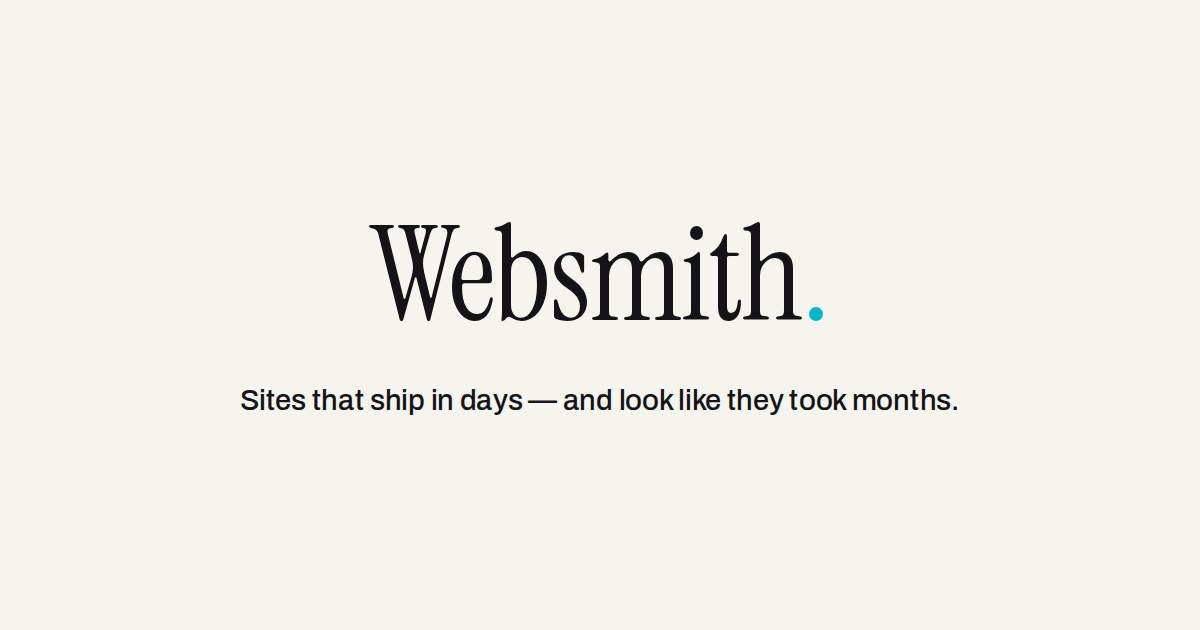
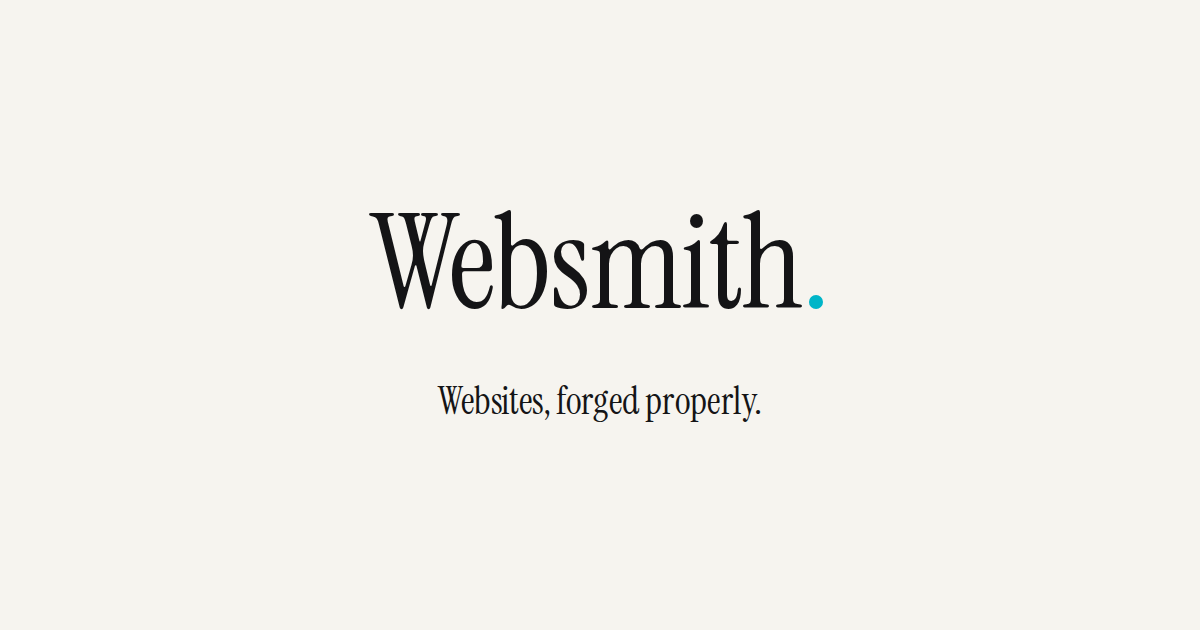
Refine Living Period: three projects, full-page frames, week-based process
Portfolio → exactly three projects (Sumou Jet · sumoujet.com, Grailhaus,
Maison Padel · maisonpadel.ae); Rack On and Prairies Fodder removed and
Maison Padel restored. Each project's frame is now sized for a tall
full-page screenshot: the framed image scrolls internally via an
object-position reveal (0→100%), so a full-page capture unspools
top-to-bottom as the visitor passes; single-viewport interims fill the
frame until real full-page captures are dropped in. Vertical spacing
between projects tightened (no forced 100svh, gap 0) so the next project
peeks as one ends — momentum kept. Mobile portfolio frames are full-bleed.

Dot docking reworked to smoothly FOLLOW the active section's anchor
(gsap.ticker + quickTo, 0.55s ease-out) instead of a discrete hop — it
now stays beside each title through the (now shorter) sections and glides
to the next, ending in the CTA. The primary WhatsApp buttons are now ink
(dark) rather than cyan, so the cyan dot is visible when it lands in the
close CTA's reserved slot (cyan-on-cyan was invisible); the CTA still
plays its single breathe. Cyan stays the only accent (dot, wordmark
period, link underlines).

Studio/process → no day-based timeline anywhere. Delivery is positioned
as two to three weeks, presented as three phases: Week 1 Foundation,
Week 2 The build, Week 3 Polish & launch. Removed all day references from
copy (packages, about, meta description, OG alt) and regenerated the OG
[…]

Changed region(s): [[0.3083, 0.3317, 0.7092, 0.5127], [0.185, 0.6032, 0.8017, 0.6635]]

diff --git a/components/Home.tsx b/components/Home.tsx
@@ -46,9 +46,24 @@ export default function Home({ images }: { images: Record<string, PortfolioImage
         const s = dotSize();
         return { x: r.left + r.width / 2 - s / 2, y: r.top + r.height / 2 - s / 2 };
       };
-      const dockTo = (el: HTMLElement, dur = 0.55) =>
-        gsap.to(dot, { ...posOf(el), duration: dur, ease: "power2.out", overwrite: "auto" });
-      const setDot = (el: HTMLElement) => gsap.set(dot, { ...posOf(el), opacity: 1 });
+      // The dot smoothly follows whichever section's anchor is active — quickTo
+      // gives the 0.5–0.6s ease-out glide between docking anchors, and following
+      // the live position keeps it beside the title as the section scrolls.
+      let active: HTMLElement = heroSlot;
+      let following = false;
+      const qx = gsap.quickTo(dot, "x", { duration: 0.55, ease: "power2.out" });
+      const qy = gsap.quickTo(dot, "y", { duration: 0.55, ease: "power2.out" });
+      const follow = () => {
+        const p = posOf(active);
+        qx(p.x);
+        qy(p.y);
+      };
+      const startFollow = () => {
+        if (following) return;
+        following = true;
+        gsap.set(dot, { opacity: 1 });
+        gsap.ticker.add(follow);
+      };
 
       // ---- non-dot scroll choreography (safe to attach immediately) ----
       gsap.utils.toArray<HTMLElement>(".kin").forEach((k) => {
@@ -70,12 +85,15 @@ export default function Home({ images }: { images: Record<string, PortfolioImage
           onEnter: () => gsap.to(el, { y: 0, opacity: 1, duration: 0.6, ease: "power2.out" }),
         });
       });
+      // Internal full-page reveal: object-position scrolls the framed screenshot
+      // from its top to its bottom as the project passes. For a tall full-page
+      // capture this reveals the entire page; for a short image it barely moves.
       gsap.utils.toArray<HTMLElement>(".pf-img").forEach((img) => {
         gsap.fromTo(
           img,
-          { yPercent: 0 },
+          { "--pp": 0 },
           {
-            yPercent: -21,
+            "--pp": 100,
             ease: "none",
             scrollTrigger: { trigger: img.closest(".pf-view"), start: "top bottom", end: "bottom top", scrub: true },
           }
@@ -108,21 +126,29 @@ export default function Home({ images }: { images: Record<string, PortfolioImage
       });
 
       // ---- the travelling dot ----
+      let breathed = false;
+      const breathe = () => {
+        if (breathed) return;
+        breathed = true;
+        gsap.fromTo(".close-cta .btn", { scale: 1 }, { scale: 1.05, duration: 0.5, yoyo: true, repeat: 1, ease: "sine.inOut" });
+      };
       const attachDotScroll = () => {
-        const anchors = gsap.utils.toArray<HTMLElement>("[data-dot-anchor]");
-        anchors.forEach((el) => {
+        active = heroSlot;
+        startFollow();
+        gsap.utils.toArray<HTMLElement>("[data-dot-anchor]").forEach((el) => {
           const section = el.closest<HTMLElement>(".pf, .section, .hero, .close") || el;
           const isClose = el.getAttribute("data-dot-anchor") === "close";
           ScrollTrigger.create({
             trigger: section,
-            start: "top center",
-            end: "bottom center",
+            start: "top 58%",
+            end: "bottom 42%",
             onEnter: () => {
-              dockTo(el);
-              if (isClose)
-                gsap.fromTo(".close-cta .btn", { scale: 1 }, { scale: 1.05, duration: 0.5, yoyo: true, repeat: 1, ease: "sine.inOut" });
+              active = el;
+              if (isClose) breathe();
             },
-            onEnterBack: () => dockTo(el),
+            onEnterBack: () => {
+              active = el;
+            },
           });
         });
         ScrollTrigger.refresh();
@@ -134,7 +160,7 @@ export default function Home({ images }: { images: Record<string, PortfolioImage
 
       if (played) {
         gsap.set(letters, { yPercent: 0, opacity: 1 });
-        setDot(heroSlot);
+        gsap.set(dot, { ...posOf(heroSlot), opacity: 1 });
         attachDotScroll();
       } else {
         const mark = document.querySelector<HTMLElement>(".hero-mark")!;
@@ -172,7 +198,10 @@ export default function Home({ images }: { images: Record<string, PortfolioImage
       // keep the dot glued to the active anchor on resize
       const onResize = () => ScrollTrigger.refresh();
       window.addEventListener("resize", onResize);
-      return () => window.removeEventListener("resize", onResize);
+      return () => {
+        window.removeEventListener("resize", onResize);
+        gsap.ticker.remove(follow);
+      };
     }, rootRef);
 
     // ---- magnetic buttons (desktop, fine pointer) ----
@@ -228,7 +257,7 @@ export default function Home({ images }: { images: Record<string, PortfolioImage
           <p className="hero-tagline">{hero.tagline}</p>
           <p className="hero-support">{hero.support}</p>
           <div className="hero-cta">
-            <a className="btn btn-cyan" data-magnetic href={waLink()} target="_blank" rel="noopener noreferrer">
+            <a className="btn" data-magnetic href={waLink()} target="_blank" rel="noopener noreferrer">
               {hero.cta}
             </a>
             <a className="tlink sweep" href="#work">
@@ -325,8 +354,8 @@ export default function Home({ images }: { images: Record<string, PortfolioImage
           <p className="about-body reveal-fade">{about.body}</p>
           <div className="steps">
             {process.map((s) => (
-              <div className="step reveal-fade" key={s.day}>
-                <div className="d">{s.day}</div>
+              <div className="step reveal-fade" key={s.label}>
+                <div className="d">{s.label}</div>
                 <h4>{s.title}</h4>
                 <p>{s.text}</p>
               </div>
@@ -341,7 +370,7 @@ export default function Home({ images }: { images: Record<string, PortfolioImage
           </h2>
           <p className="close-support reveal-fade">{close.support}</p>
           <div className="close-cta">
-            <a className="btn btn-cyan" data-magnetic href={waLink()} target="_blank" rel="noopener noreferrer">
+            <a className="btn" data-magnetic href={waLink()} target="_blank" rel="noopener noreferrer">
               <span className="slot" data-dot-anchor="close" aria-hidden="true" />
               {close.cta}
             </a>

diff --git a/config/site.ts b/config/site.ts
@@ -30,12 +30,12 @@ export interface Package {
   description: string;
 }
 
-export interface ProcessStep {
-  /** day marker, e.g. "Day 0" or "Days 2–4" */
-  day: string;
-  /** step title */
+export interface Phase {
+  /** phase label, e.g. "Week 1" */
+  label: string;
+  /** phase title */
   title: string;
-  /** step description */
+  /** phase description */
   text: string;
 }
 
@@ -59,7 +59,7 @@ export const site = {
   meta: {
     title: "Websmith — Independent Web Studio, Dubai",
     description:
-      "Websmith forges custom brand websites in Dubai — real motion, native Arabic, shipped in days. A Web Smith FZCO company.",
+      "Websmith forges custom brand websites in Dubai — real motion, native Arabic, delivered in two to three weeks. A Web Smith FZCO company.",
     url: "https://websmith.ae",
     themeColor: "#F6F4EF",
   },
@@ -72,35 +72,28 @@ export const site = {
     cta: "Start on WhatsApp",
   },
 
-  /** PORTFOLIO — each project is a full-viewport moment */
+  /** PORTFOLIO — exactly three projects, each a full-viewport moment */
   portfolio: [
     {
       slug: "sumou-jet",
       name: "Sumou Jet",
       blurb: "Private jet charter, forged for the Gulf's most demanding travellers.",
-      liveUrl: "https://sumou-jet.example",
+      liveUrl: "https://sumoujet.com",
       tint: "#EDF0F3",
     },
     {
       slug: "grailhaus",
       name: "Grailhaus",
       blurb: "A one-of-one trading-card vault where collectors make offers, not orders.",
-      liveUrl: "https://grailhaus.example",
+      liveUrl: "https://grailhaus.com",
       tint: "#F4EFE6",
     },
     {
-      slug: "rack-on",
-      name: "Rack On",
-      blurb: "Barbell-grade e-commerce for a strength brand that doesn't do subtle.",
-      liveUrl: "https://rack-on.example",
-      tint: "#F1EFEA",
-    },
-    {
-      slug: "prairies-fodder",
-      name: "Prairies Fodder",
-      blurb: "Farm-to-trough commerce for a prairie feed supplier, built to move tonnes.",
-      liveUrl: "https://prairies-fodder.example",
-      tint: "#EDF1EA",
+      slug: "maison-padel",
+      name: "Maison Padel",
+      blurb: "Dubai's first luxury indoor padel club — brand, booking, and a bilingual members' world.",
+      liveUrl: "https://maisonpadel.ae",
+      tint: "#ECF1EE",
     },
   ] as Project[],
 
@@ -110,7 +103,7 @@ export const site = {
       name: "Launch",
       subject: "Launch",
       description:
-        "A custom brand site, forged in days — everything you need to look established from day one.",
+        "A custom brand site that makes you look established from the first visit — structure, design, and content, done properly.",
     },
     {
       name: "Store",
@@ -126,17 +119,16 @@ export const site = {
     },
   ] as Package[],
 
-  /** ABOUT / PROCESS */
+  /** ABOUT / PROCESS — delivery positioned as two to three weeks (no day counts) */
   about: {
-    title: "One smith. Measured in days, not months.",
-    body: "Websmith is one independent studio in Dubai — design, build, motion, and native Arabic under one roof. No agency overhead, no six-week timelines. You talk to the person doing the work.",
+    title: "One smith. Two to three weeks, start to launch.",
+    body: "Websmith is one independent studio in Dubai — design, build, motion, and native Arabic under one roof. No agency overhead, no drawn-out timelines. You talk to the person doing the work.",
   },
   process: [
-    { day: "Day 0", title: "Brief", text: "One call or one voice note — I take it from there." },
-    { day: "Day 1", title: "Draft", text: "A working design in your hands, with real motion." },
-    { day: "Days 2–4", title: "Build", text: "The full site, previewed live as it grows." },
-    { day: "Day 5", title: "Ship", text: "Your domain, your accounts, your keys." },
-  ] as ProcessStep[],
+    { label: "Week 1", title: "Foundation", text: "Brand direction, structure, and the design concept — the shape of the whole thing agreed before a pixel is built." },
+    { label: "Week 2", title: "The build", text: "Design and development in parallel, your content in place, previewed live as it grows." },
+    { label: "Week 3", title: "Polish & launch", text: "Refinements, testing across every device, then go live on your own domain and accounts." },
+  ] as Phase[],
 
   /** CLOSE — where the dot lands, in the WhatsApp CTA */
   close: {

diff --git a/app/globals.css b/app/globals.css
@@ -103,9 +103,10 @@ nav{position:sticky;top:0;z-index:60;background:rgba(246,244,239,.82);backdrop-f
   font-size:clamp(160px,32vw,460px);line-height:1;color:var(--ink);opacity:.04;white-space:nowrap;pointer-events:none;z-index:0;user-select:none}
 
 /* ---------- PORTFOLIO ---------- */
-.pf{position:relative;min-height:100svh;display:flex;align-items:center;padding:100px 0;z-index:1}
-.pf-grid{display:grid;grid-template-columns:1fr 1.05fr;gap:56px;align-items:center;width:100%}
-.pf:nth-child(even) .pf-grid{grid-template-columns:1.05fr 1fr}
+/* Tight vertical rhythm — projects flow with momentum, the next peeking as one ends */
+.pf{position:relative;padding:54px 0;z-index:1}
+.pf-grid{display:grid;grid-template-columns:.82fr 1.18fr;gap:56px;align-items:center;width:100%}
+.pf:nth-child(even) .pf-grid{grid-template-columns:1.18fr .82fr}
 .pf:nth-child(even) .pf-frame{order:-1}
 .pf-index{font-family:var(--font-sans),sans-serif;font-size:12px;font-weight:600;letter-spacing:.22em;color:var(--muted);margin-bottom:16px;display:flex;align-items:center;gap:14px}
 .pf-name{font-family:var(--font-serif),Georgia,serif;font-weight:400;font-size:clamp(46px,7vw,104px);line-height:.92;letter-spacing:-.02em;margin-bottom:18px}
@@ -117,12 +118,16 @@ nav{position:sticky;top:0;z-index:60;background:rgba(246,244,239,.82);backdrop-f
 .pf-frame:hover{transform:translateY(-2px)}
 .pf-bar{height:34px;display:flex;align-items:center;gap:7px;padding:0 15px;background:rgba(20,20,22,.05);border-bottom:1px solid var(--line)}
 .pf-bar i{width:9px;height:9px;border-radius:50%;background:#c8c2b6;display:block}
-.pf-view{position:relative;aspect-ratio:16/10.2;overflow:hidden}
-.pf-img{position:absolute;left:0;top:0;width:100%;height:128%;object-fit:cover;object-position:top;will-change:transform}
+/* the browser "window": a tall viewport a full-page screenshot scrolls through */
+.pf-view{position:relative;height:clamp(340px,58vh,560px);overflow:hidden}
+.pf-img{position:absolute;inset:0;width:100%;height:100%;object-fit:cover;object-position:50% calc(var(--pp,0)*1%);will-change:object-position}
 @media(max-width:820px){
-  .pf-grid,.pf:nth-child(even) .pf-grid{grid-template-columns:1fr;gap:30px}
+  .pf-grid,.pf:nth-child(even) .pf-grid{grid-template-columns:1fr;gap:24px}
   .pf:nth-child(even) .pf-frame{order:0}
-  .pf{min-height:auto;padding:70px 0}
+  .pf{padding:44px 0}
+  /* full-bleed portfolio frames on mobile */
+  .pf-frame{border-radius:0;margin-left:-28px;margin-right:-28px;box-shadow:none;border-top:1px solid var(--line);border-bottom:1px solid var(--line)}
+  .pf-view{height:62vh}
 }
 
 /* ---------- PACKAGES ---------- */
@@ -135,7 +140,7 @@ nav{position:sticky;top:0;z-index:60;background:rgba(246,244,239,.82);backdrop-f
 
 /* ---------- ABOUT / PROCESS ---------- */
 .about-body{color:var(--body);font-size:19px;max-width:60ch;line-height:1.6;margin-bottom:56px}
-.steps{display:grid;grid-template-columns:repeat(4,1fr);gap:40px;border-top:1px solid var(--line-strong);padding-top:34px}
+.steps{display:grid;grid-template-columns:repeat(3,1fr);gap:44px;border-top:1px solid var(--line-strong);padding-top:34px}
 .step .d{font-family:var(--font-sans),sans-serif;font-size:12px;font-weight:600;letter-spacing:.16em;color:var(--muted);margin-bottom:12px}
 .step h4{font-family:var(--font-serif),Georgia,serif;font-size:22px;margin-bottom:8px}
 .step p{color:var(--body);font-size:15px}

diff --git a/app/layout.tsx b/app/layout.tsx
@@ -21,7 +21,7 @@ export const metadata: Metadata = {
         url: "/og.png",
         width: 1200,
         height: 630,
-        alt: "Websmith — sites that ship in days, and look like they took months.",
+        alt: "Websmith — websites, forged properly.",
       },
     ],
   },

diff --git a/public/portfolio/README.md b/public/portfolio/README.md
@@ -1,26 +1,29 @@
 # Portfolio screenshots
 
-Each project on the homepage shows a full-page screenshot inside a browser
-frame that parallax-scrolls as you pass it. Drop the real screenshots here.
+Exactly three projects. Each shows a screenshot inside a browser frame that
+scrolls **internally** as the visitor passes — for a tall full-page capture this
+reveals the whole page top-to-bottom.
 
-## Exact files (one per project, named by its `slug` in `config/site.ts`)
+## Exact files — drop full-page captures here (`/public/portfolio/`)
 
-| Project          | File                              | Status                    |
-| ---------------- | --------------------------------- | ------------------------- |
-| Sumou Jet        | `sumou-jet.jpg`                   | ✅ real screenshot        |
-| Grailhaus        | `grailhaus.jpg`                   | ✅ real screenshot        |
-| Rack On          | `rack-on.png`                     | ⛔ **placeholder — replace** |
-| Prairies Fodder  | `prairies-fodder.png`             | ⛔ **placeholder — replace** |
+| Project      | Live site        | File (any of `.jpg` / `.jpeg` / `.png`) | Status                          |
+| ------------ | ---------------- | --------------------------------------- | ------------------------------- |
+| Sumou Jet    | sumoujet.com     | `sumou-jet.jpg`                         | interim (single-viewport) — replace |
+| Grailhaus    | grailhaus.com    | `grailhaus.jpg`                         | interim (single-viewport) — replace |
+| Maison Padel | maisonpadel.ae   | `maison-padel.png`                      | interim (single-viewport) — replace |
 
-Any of `.jpg`, `.jpeg`, or `.png` is accepted (resolved in that order). If a
-file is missing the frame falls back to a clean tinted panel.
+**Please replace each with a full-page screenshot** — the entire scrollable
+page, top to bottom (e.g. a browser "capture full page" export, ~1440px wide and
+as tall as the page). The frame is already sized for tall images: it crops to a
+browser-window shape and the `object-position` reveal walks the image from its
+top to its bottom as the project scrolls past. The current interim images are
+single-viewport captures of each site, so they fill the frame but there is little
+to reveal until the full-page versions are dropped in.
 
 ## Notes
 
-- **Tall, full-page captures work best** — the image is shown at 128% of the
-  frame height and parallax-scrolls through as the visitor passes, so the more
-  vertical page you capture, the more there is to reveal.
-- Images are served through `next/image` (optimised + lazy-loaded below the
-  fold); intrinsic size is read at build time so there is no layout shift.
-- To add or rename a project, edit the `portfolio` array in `config/site.ts`
-  (the `slug` drives the filename) and drop the matching image here.
+- Filenames are driven by each project's `slug` in `config/site.ts` (resolved
+  `.jpg → .jpeg → .png`). To change projects, edit the `portfolio` array there.
+- Images are served through `next/image` — optimised, lazy-loaded below the
+  fold, with intrinsic sizes read at build time so there is no layout shift.
+- If a file is missing, the frame falls back to a clean tinted panel.

diff --git a/README.md b/README.md
@@ -103,9 +103,13 @@ All scroll choreography is GSAP + ScrollTrigger, set up in `components/Home.tsx`
 - **Kinetic type** — section headlines split into words and rise-and-settle on
   scroll; body text fades up; a huge Instrument Serif *Websmith* watermark drifts
   behind alternating sections at 4% opacity.
-- **Portfolio** — each project is a full-viewport moment; its browser-framed
-  screenshot parallax-scrolls inside the frame, and the background tints toward
-  the project's palette at very low saturation, returning to ivory between.
+- **Portfolio** — exactly three projects (Sumou Jet, Grailhaus, Maison Padel),
+  each a full-viewport moment with tight spacing so the next peeks as one ends.
+  A browser-framed screenshot scrolls **internally** (an `object-position`
+  reveal) so a tall full-page capture unspools top-to-bottom as you pass, and
+  the background tints toward the project's palette at very low saturation,
+  returning to ivory between. Drop full-page captures into `/public/portfolio/`
+  (see its README for the exact filenames).
 - **Micro-interactions** — magnetic hover on primary buttons (desktop only),
   a cyan underline sweep on text links, 2px card lift.
 
